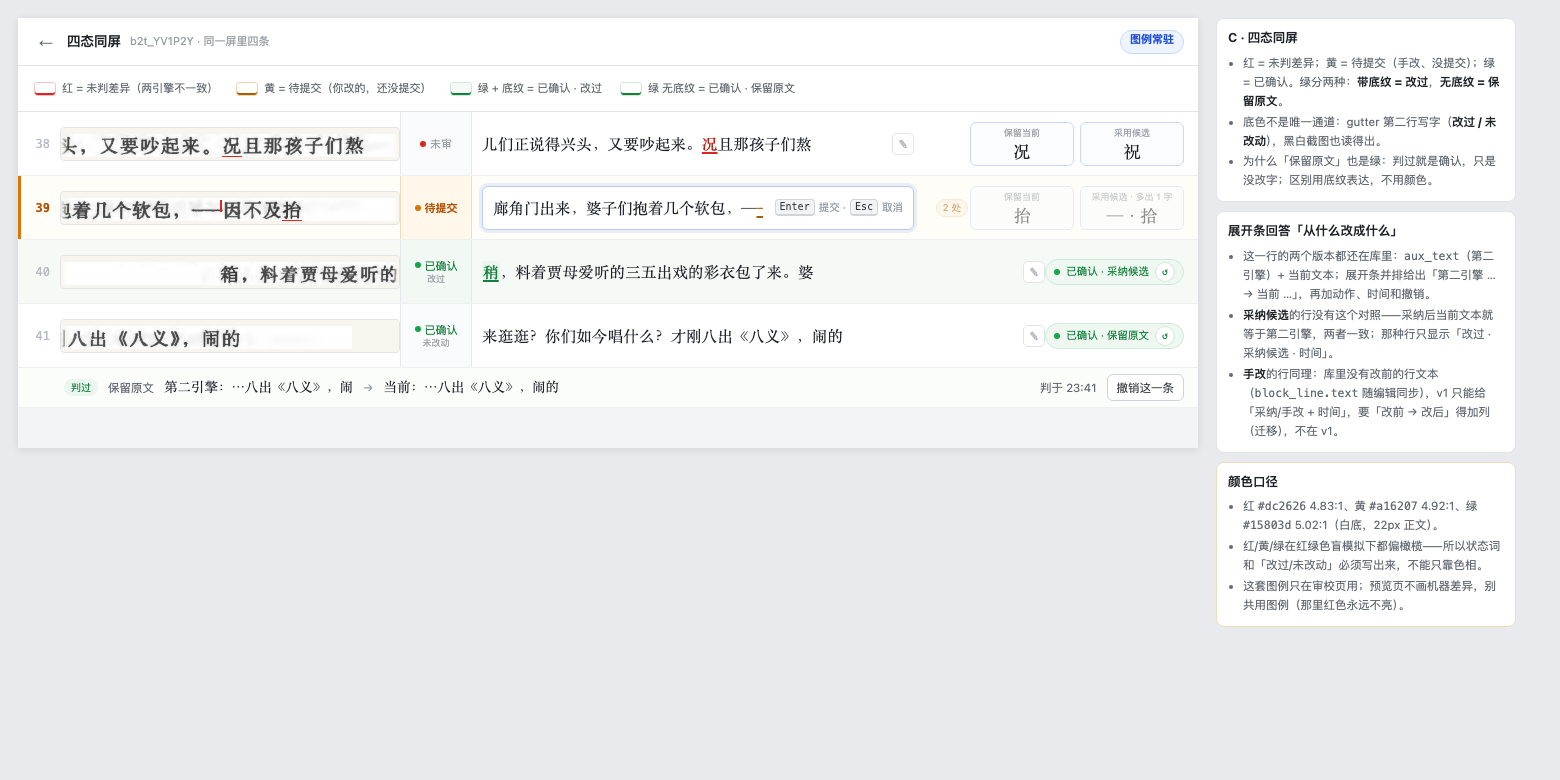
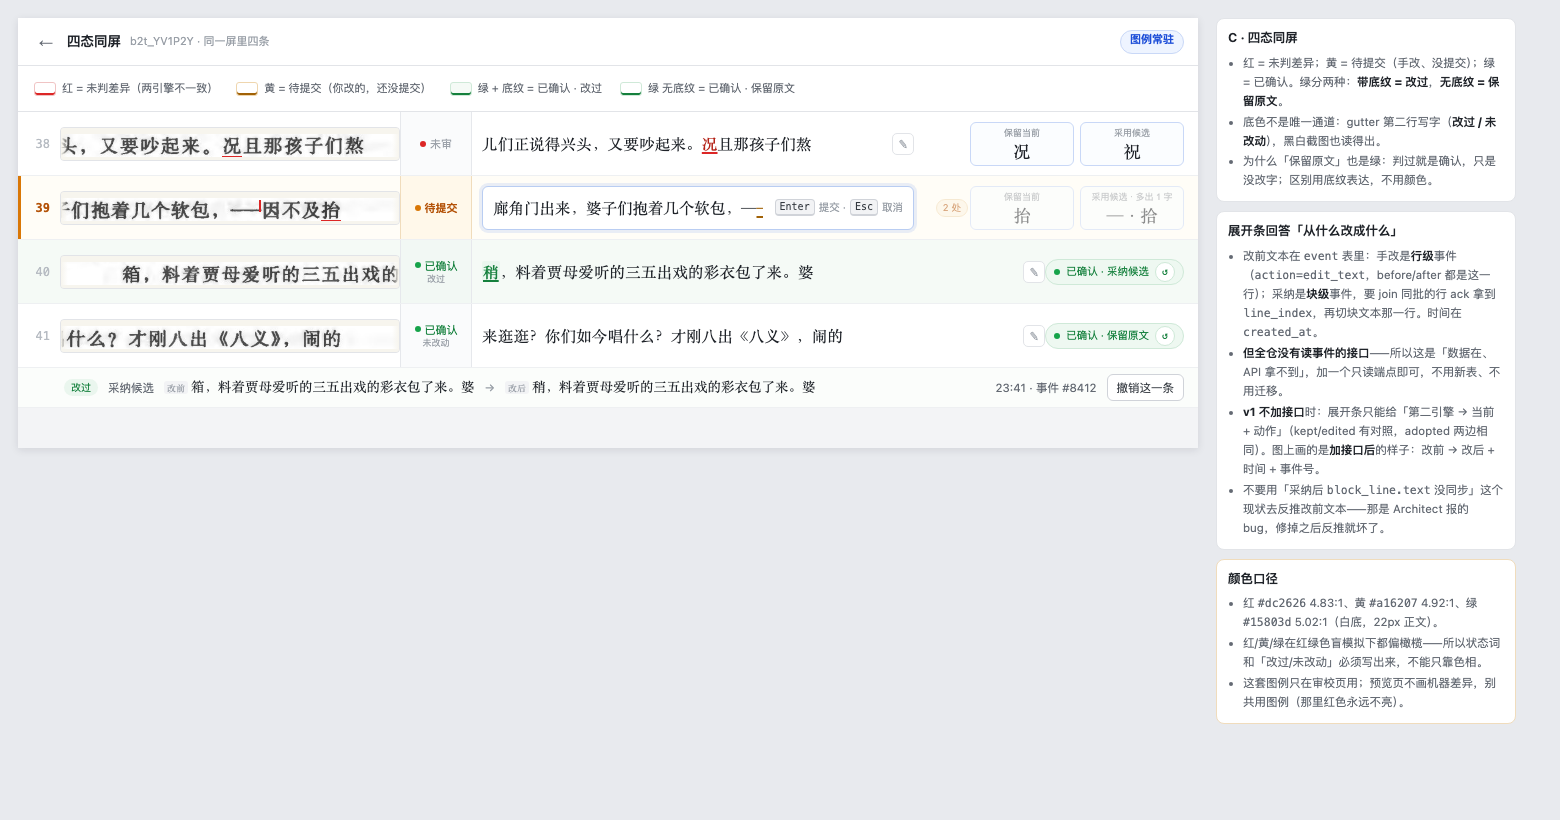
docs(ux): 展开条改「改前→改后」（Architect 核：数据在 event、缺只读端点）；取景窗加边界钳制

diff --git a/docs/ux/review-cat-list-v3-mockup.html b/docs/ux/review-cat-list-v3-mockup.html
@@ -91,6 +91,8 @@ kbd{font:10px/1 var(--mono);background:#f2f3f5;border:1px solid var(--line3);bor
 .sw.g2{background:#fff;border-color:#cfe9d8;box-shadow:inset 0 -2px 0 #15803d}
 .expand{display:flex;align-items:center;gap:10px;padding:0 14px 0 46px;height:40px;background:#fbfdfb;border-bottom:1px solid var(--line2);font-size:11.5px;color:var(--muted)}
 .expand .k{font-size:10px;color:#15803d;background:#eaf6ee;border-radius:9px;padding:1px 7px}
+.expand .lbl{font-style:normal;font-size:9px;color:var(--faint);background:#f2f3f5;border-radius:3px;padding:0 3px;margin-right:3px}
+.expand .v em{font-style:normal;color:#15803d;background:#eaf6ee;border-radius:2px;padding:0 1px}
 .expand .v{font:13.5px/1.4 var(--book);color:var(--text)}
 .expand .arw{color:var(--faint)}
 .foot{height:24px;flex:none;display:flex;align-items:center;gap:10px;padding:0 14px;background:var(--s3);border-top:1px solid var(--line2);font-size:10.5px;color:var(--faint)}
@@ -160,7 +162,7 @@ kbd{font:10px/1 var(--mono);background:#f2f3f5;border:1px solid var(--line3);bor
     </div>
 </div><div class="row un">
   <div class="no">39</div>
-  <div class="shot"><div class="im pg10" style="background-size:760.2px 1145.8px;background-position:-434.7px -661.2px"><i class="u" style="left:160.6px;top:22.0px;width:20.5px"></i></div></div>
+  <div class="shot"><div class="im pg10" style="background-size:760.2px 1145.8px;background-position:-356.2px -661.2px"><i class="u" style="left:239.1px;top:22.0px;width:20.5px"></i></div></div>
   <div class="gut st-un"><span class="g1"><span class="dot"></span>未审</span>
     </div>
   <span class="tx">夜，怪冷的。也罢！且叫他们歇歇，把咱们<span class="d">的</span>女</span><button class="pen" title="直接改这一行">✎</button>
@@ -170,7 +172,7 @@ kbd{font:10px/1 var(--mono);background:#f2f3f5;border:1px solid var(--line3);bor
     </div>
 </div><div class="row edit cur">
   <div class="no">40</div>
-  <div class="shot"><div class="im pg10" style="background-size:760.2px 1145.8px;background-position:-395.6px -936.8px"><i class="v" style="left:159.2px;top:2px"></i><i class="u" style="left:220.7px;top:22.0px;width:20.5px"></i></div></div>
+  <div class="shot"><div class="im pg10" style="background-size:760.2px 1145.8px;background-position:-356.8px -936.8px"><i class="v" style="left:198.1px;top:2px"></i><i class="u" style="left:259.5px;top:22.0px;width:20.5px"></i></div></div>
   <div class="gut st-ed"><span class="g1"><span class="dot"></span>待提交</span>
     </div>
   <span class="field"><span class="ftx">廊角门出来，婆子们抱着几个软包，—<span class="e">—</span><i class="caret"></i>因不及抬</span><span class="hint"><kbd>Enter</kbd> 提交 · <kbd>Esc</kbd> 取消</span></span>
@@ -180,14 +182,14 @@ kbd{font:10px/1 var(--mono);background:#f2f3f5;border:1px solid var(--line3);bor
     </div>
 </div><div class="row done_changed">
   <div class="no">41</div>
-  <div class="shot"><div class="im pg10" style="background-size:739.7px 1114.9px;background-position:-42.3px -949.5px"></div></div>
+  <div class="shot"><div class="im pg10" style="background-size:739.7px 1114.9px;background-position:-140.4px -949.5px"></div></div>
   <div class="gut st-ok"><span class="g1"><span class="dot"></span>已确认</span>
     <span class="g2">改过</span></div>
   <span class="tx"><span class="chg">稍</span>，料着贾母爱听的三五出戏的彩衣包了来。婆</span><button class="pen" title="直接改这一行">✎</button>
   <span class="con"><span class="dotg"></span>已确认 · 采纳候选<button class="undo" title="撤销这一条（batch /undo）">↺</button></span>
 </div><div class="row done_kept">
   <div class="no">42</div>
-  <div class="shot"><div class="im pg11" style="background-size:760.2px 1145.8px;background-position:-468.9px -70.9px"></div></div>
+  <div class="shot"><div class="im pg11" style="background-size:760.2px 1145.8px;background-position:-368.4px -70.9px"></div></div>
   <div class="gut st-ok"><span class="g1"><span class="dot"></span>已确认</span>
     <span class="g2">未改动</span></div>
   <span class="tx">来逛逛？你们如今唱什么？才刚八出《八义》，闹的</span><button class="pen" title="直接改这一行">✎</button>
@@ -204,7 +206,7 @@ kbd{font:10px/1 var(--mono);background:#f2f3f5;border:1px solid var(--line3);bor
     </div>
 </div><div class="row un">
   <div class="no">44</div>
-  <div class="shot"><div class="im pg12" style="background-size:760.2px 1145.8px;background-position:-22.2px -932.5px"><i class="u" style="left:157.5px;top:22.0px;width:20.1px"></i></div></div>
+  <div class="shot"><div class="im pg12" style="background-size:760.2px 1145.8px;background-position:-119.7px -932.5px"><i class="u" style="left:60.0px;top:22.0px;width:20.1px"></i></div></div>
   <div class="gut st-un"><span class="g1"><span class="dot"></span>未审</span>
     </div>
   <span class="tx"><span class="d">疾</span>电之光而忽暗，其鼓声慢，传梅亦慢，鼓声疾，传</span><button class="pen" title="直接改这一行">✎</button>
@@ -290,7 +292,7 @@ kbd{font:10px/1 var(--mono);background:#f2f3f5;border:1px solid var(--line3);bor
     </div>
 </div><div class="row edit cur">
   <div class="no">39</div>
-  <div class="shot"><div class="im pg10" style="background-size:760.2px 1145.8px;background-position:-395.6px -936.8px"><i class="v" style="left:159.2px;top:2px"></i><i class="u" style="left:220.7px;top:22.0px;width:20.5px"></i></div></div>
+  <div class="shot"><div class="im pg10" style="background-size:760.2px 1145.8px;background-position:-356.8px -936.8px"><i class="v" style="left:198.1px;top:2px"></i><i class="u" style="left:259.5px;top:22.0px;width:20.5px"></i></div></div>
   <div class="gut st-ed"><span class="g1"><span class="dot"></span>待提交</span>
     </div>
   <span class="field"><span class="ftx">廊角门出来，婆子们抱着几个软包，—<span class="e">—</span><i class="caret"></i>因不及抬</span><span class="hint"><kbd>Enter</kbd> 提交 · <kbd>Esc</kbd> 取消</span></span>
@@ -300,23 +302,24 @@ kbd{font:10px/1 var(--mono);background:#f2f3f5;border:1px solid var(--line3);bor
     </div>
 </div><div class="row done_changed">
   <div class="no">40</div>
-  <div class="shot"><div class="im pg10" style="background-size:739.7px 1114.9px;background-position:-42.3px -949.5px"></div></div>
+  <div class="shot"><div class="im pg10" style="background-size:739.7px 1114.9px;background-position:-140.4px -949.5px"></div></div>
   <div class="gut st-ok"><span class="g1"><span class="dot"></span>已确认</span>
     <span class="g2">改过</span></div>
   <span class="tx"><span class="chg">稍</span>，料着贾母爱听的三五出戏的彩衣包了来。婆</span><button class="pen" title="直接改这一行">✎</button>
   <span class="con"><span class="dotg"></span>已确认 · 采纳候选<button class="undo" title="撤销这一条（batch /undo）">↺</button></span>
 </div><div class="row done_kept">
   <div class="no">41</div>
-  <div class="shot"><div class="im pg11" style="background-size:760.2px 1145.8px;background-position:-468.9px -70.9px"></div></div>
+  <div class="shot"><div class="im pg11" style="background-size:760.2px 1145.8px;background-position:-368.4px -70.9px"></div></div>
   <div class="gut st-ok"><span class="g1"><span class="dot"></span>已确认</span>
     <span class="g2">未改动</span></div>
   <span class="tx">来逛逛？你们如今唱什么？才刚八出《八义》，闹的</span><button class="pen" title="直接改这一行">✎</button>
   <span class="con"><span class="dotg"></span>已确认 · 保留原文<button class="undo" title="撤销这一条（batch /undo）">↺</button></span>
 </div>
-    <div class="expand"><span class="k">判过</span><span>保留原文</span>
-      <span class="v">第二引擎：…八出《八义》，闹</span><span class="arw">→</span>
-      <span class="v">当前：…八出《八义》，闹的</span>
-      <span class="spacer"></span><span>判于 23:41</span><button class="btn">撤销这一条</button></div>
+    <div class="expand"><span class="k">改过</span><span>采纳候选</span>
+      <span class="v"><i class="lbl">改前</i>箱，料着贾母爱听的三五出戏的彩衣包了来。婆</span><span class="arw">→</span>
+      <span class="v"><i class="lbl">改后</i>稍，料着贾母爱听的三五出戏的彩衣包了来。婆</span>
+      <span class="spacer"></span><span>23:41 · 事件 #8412</span><button class="btn">撤销这一条</button>
+    </div>
   </div>
 </div><aside class="notes">
 <div class="card"><h3>C · 四态同屏</h3><ul>
@@ -325,9 +328,10 @@ kbd{font:10px/1 var(--mono);background:#f2f3f5;border:1px solid var(--line3);bor
 <li>为什么「保留原文」也是绿：判过就是确认，只是没改字；区别用底纹表达，不用颜色。</li>
 </ul></div>
 <div class="card"><h3>展开条回答「从什么改成什么」</h3><ul>
-<li>这一行的两个版本都还在库里：<code>aux_text</code>（第二引擎）+ 当前文本；展开条并排给出「第二引擎 … → 当前 …」，再加动作、时间和撤销。</li>
-<li><b>采纳候选</b>的行没有这个对照——采纳后当前文本就等于第二引擎，两者一致；那种行只显示「改过 · 采纳候选 · 时间」。</li>
-<li><b>手改</b>的行同理：库里没有改前的行文本（<code>block_line.text</code> 随编辑同步），v1 只能给「采纳/手改 + 时间」，要「改前 → 改后」得加列（迁移），不在 v1。</li>
+<li>改前文本在 <code>event</code> 表里：手改是<b>行级</b>事件（<code>action=edit_text</code>，before/after 都是这一行）；采纳是<b>块级</b>事件，要 join 同批的行 ack 拿到 <code>line_index</code>，再切块文本那一行。时间在 <code>created_at</code>。</li>
+<li><b>但全仓没有读事件的接口</b>——所以这是「数据在、API 拿不到」，加一个只读端点即可，不用新表、不用迁移。</li>
+<li><b>v1 不加接口</b>时：展开条只能给「第二引擎 → 当前 + 动作」（kept/edited 有对照，adopted 两边相同）。图上画的是<b>加接口后</b>的样子：改前 → 改后 + 时间 + 事件号。</li>
+<li>不要用「采纳后 <code>block_line.text</code> 没同步」这个现状去反推改前文本——那是 Architect 报的 bug，修掉之后反推就坏了。</li>
 </ul></div>
 <div class="card warnbox"><h3>颜色口径</h3><ul>
 <li>红 <code>#dc2626</code> 4.83:1、黄 <code>#a16207</code> 4.92:1、绿 <code>#15803d</code> 5.02:1（白底，22px 正文）。</li>

diff --git a/docs/ux/review-cat-list-v3.md b/docs/ux/review-cat-list-v3.md
@@ -94,10 +94,15 @@
 
 ### 展开条回答「从什么改成什么」
 
-- 展开行长这样：`判过 · 保留原文　第二引擎：…八出《八义》，闹 → 当前：…八出《八义》，闹的　判于 23:41　[撤销这一条]`。
-- 两个版本都在库里：`aux_text`（第二引擎）+ 当前文本，加 `diff_ack` 和 event 时间，不用新存储。
-- **采納候选的行没有这个对照**：采纳后当前文本就等于第二引擎，两者一致；那种行只显示「改过 · 采纳候选 · 时间」。
-- **手改的行同理**：库里没有改前的行文本（`block_line.text` 随编辑同步），v1 只能给「手改 + 时间」；要「改前 → 改后」得加列（迁移），不在 v1。
+- 图上这条：`改过 · 采纳候选　改前：箱，料着…　→　改后：稍，料着…　23:41 · 事件 #8412　[撤销这一条]`。
+- **改前文本在库里**（Architect 核过 `event` 表 `before_json/after_json`）：
+  - 手改 = **行级**事件（`action=edit_text`，before/after 都是这一行），最干净；
+  - 采纳候选 = **块级**事件（before/after 是整块文本），要用同批的行 ack 拿到 `line_index`，再切出那一行；
+  - 保留原文 = 文本没变，没有「改前 → 改后」。
+  - 时间在 `event.created_at`。
+- **缺的是只读接口**：全仓没有读事件的 API（`_history` 是内存撤销栈，重启即空）。所以这是「数据在、API 拿不到」，属于约束 2 的成立情形——加一个只读端点即可，**不用新表、不用迁移**。
+- **v1 不加接口时**：展开条只给「第二引擎 → 当前 + 动作」（kept / edited 有对照，adopted 两边相同）；验收别按「每行都能看改前→改后」验。
+- **不要用「采纳后 `block_line.text` 没同步」这个现状去反推改前文本**——那是 Architect 报的 bug（`editing.py:899-920`），修掉之后反推就坏了；改前文本只能走事件读接口。
 
 ## 7. 数字（v3 修正）
 
